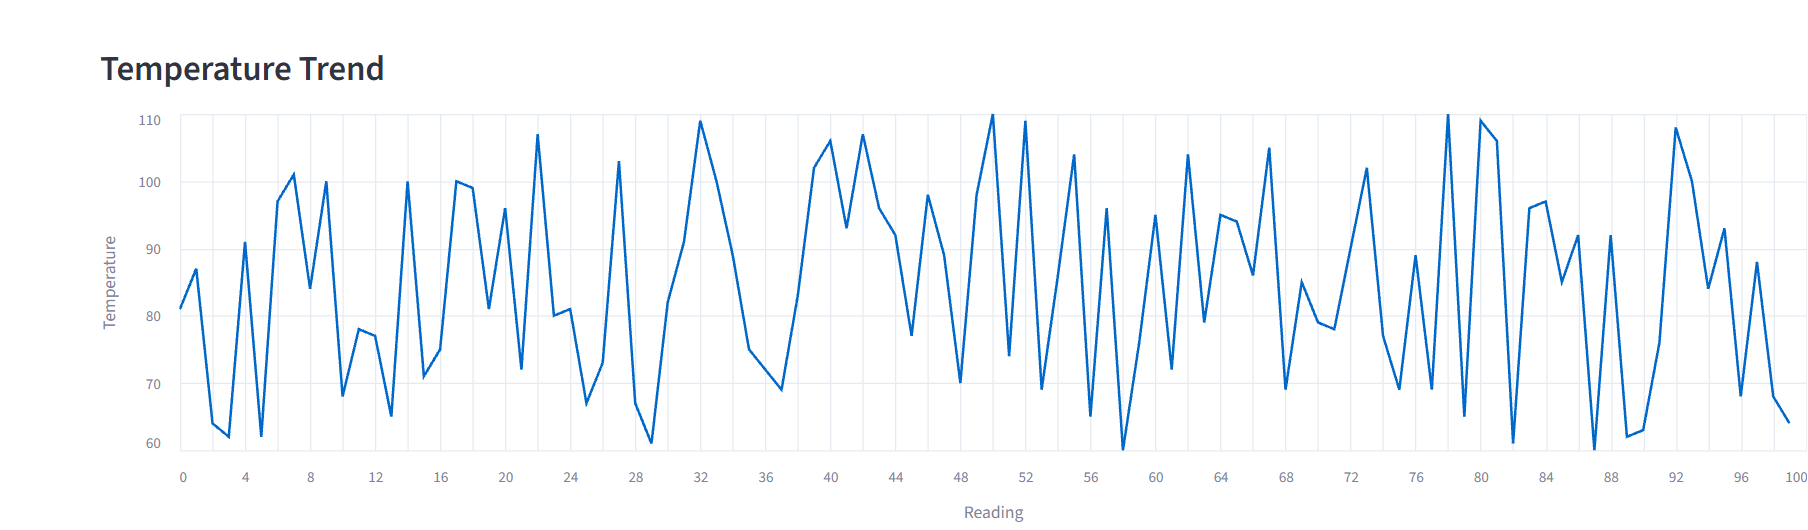
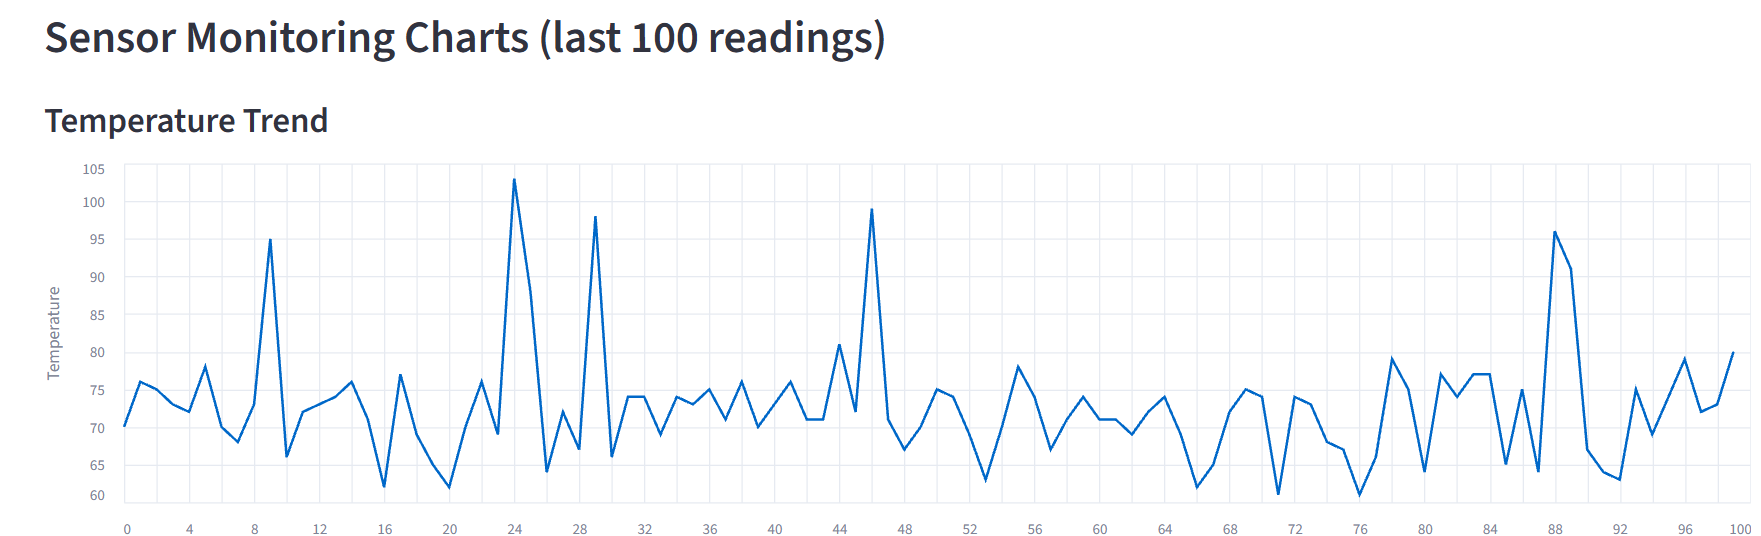
Update README, realistic simulation, shared threshold config, new screenshots

diff --git a/sensor_simulation.py b/sensor_simulation.py
@@ -1,52 +1,40 @@
-
-import random
-import time
 import csv
+import random
 
-machine_id = "M001"
+from config import MACHINE_ID, get_status
 
-# Create and open the CSV file
+NUM_READINGS = 200        # how many readings to generate
+ANOMALY_CHANCE = 0.06     # about 6% of readings are faults (spikes)
+
 with open("machine_data.csv", "w", newline="") as file:
-
     writer = csv.writer(file)
 
-    # Add column headings
-    writer.writerow([
-        "Machine ID",
-        "Temperature",
-        "Vibration",
-        "Speed",
-        "Machine Status"
-    ])
+    # Column headings
+    writer.writerow(["Machine ID", "Temperature", "Vibration", "Speed", "Machine Status"])
 
-    # Generate 10 sensor readings
-    for i in range(10):
+    warnings = 0
 
-        temperature = random.randint(60, 110)
-        vibration = round(random.uniform(2.0, 8.0), 2)
-        speed = random.randint(1000, 1800)
+    for i in range(NUM_READINGS):
+        # Normal operation: values stay close to a typical level
+        temperature = random.gauss(72, 5)
+        vibration = random.gauss(4.0, 0.7)
+        speed = random.gauss(1450, 60)
 
-        if temperature > 90:
-            status = "Warning"
-        else:
-            status = "Normal"
+        # Occasionally the machine develops a fault: temperature and vibration spike
+        if random.random() < ANOMALY_CHANCE:
+            temperature += random.uniform(18, 35)
+            vibration += random.uniform(2.5, 4.0)
+            speed -= random.uniform(100, 300)
 
-        print("Reading:", i + 1)
-        print("Temperature:", temperature, "°C")
-        print("Vibration:", vibration, "mm/s")
-        print("Speed:", speed, "RPM")
-        print("Machine Status:", status)
-        print("------------------------")
+        temperature = round(temperature)
+        vibration = round(max(vibration, 0.5), 2)
+        speed = round(speed)
 
-        # Save readings into CSV
-        writer.writerow([
-            machine_id,
-            temperature,
-            vibration,
-            speed,
-            status
-        ])
+        status = get_status(temperature, vibration)
+        if status == "WARNING":
+            warnings += 1
 
-        time.sleep(2)
+        writer.writerow([MACHINE_ID, temperature, vibration, speed, status])
 
-print("All 10 sensor readings saved successfully!")
+print(f"Saved {NUM_READINGS} readings to machine_data.csv")
+print(f"Warning readings: {warnings} ({warnings / NUM_READINGS:.0%})")

diff --git a/app.py b/app.py
@@ -4,10 +4,10 @@ import altair as alt
 import pandas as pd
 import streamlit as st
 
+from config import get_status
+
 # ---------- Settings ----------
-DATA_FILES = ["live_machine_data.csv", "machine_data.csv"]
-TEMP_LIMIT = 90
-VIBRATION_LIMIT = 7.0
+DATA_FILES = ["machine_data.csv", "live_machine_data.csv"]
 
 st.set_page_config(page_title="Machine Digital Twin", page_icon="🏭", layout="wide")
 
@@ -41,14 +41,10 @@ def load_data():
     if "Machine ID" not in df.columns:
         df["Machine ID"] = "M001"
 
-    # Compute status if the file does not have one
-    if "Machine Status" not in df.columns:
-        df["Machine Status"] = df.apply(
-            lambda r: "WARNING"
-            if r["Temperature"] > TEMP_LIMIT or r["Vibration"] > VIBRATION_LIMIT
-            else "NORMAL",
-            axis=1,
-        )
+    # Always compute status from the shared thresholds in config.py
+    df["Machine Status"] = df.apply(
+        lambda r: get_status(r["Temperature"], r["Vibration"]), axis=1
+    )
     return df
 
 

diff --git a/config.py b/config.py
@@ -1,0 +1,14 @@
+"""Shared settings for the Machine Digital Twin project."""
+
+MACHINE_ID = "M001"
+
+# A reading is a WARNING if any of these limits is crossed
+TEMP_LIMIT = 90         # degrees C
+VIBRATION_LIMIT = 7.0   # mm/s
+
+
+def get_status(temperature, vibration):
+    """Return 'WARNING' or 'NORMAL' for one reading."""
+    if temperature > TEMP_LIMIT or vibration > VIBRATION_LIMIT:
+        return "WARNING"
+    return "NORMAL"

diff --git a/README .md b/README .md
@@ -1,6 +1,6 @@
 # Machine Digital Twin Dashboard
 
-A learning project that builds a **digital twin** of an industrial machine (ID: `M001`). It simulates sensor data, stores it in CSV files, analyses it, and shows the machine's live condition on a Streamlit dashboard.
+A learning project that builds a **digital twin** of an industrial machine (ID: `M001`). It simulates sensor data, stores it in CSV files, analyses it, and shows the machine's condition on a Streamlit dashboard.
 
 > **Note:** All sensor data is **simulated**. No real machine is connected.
 
@@ -11,8 +11,9 @@ A digital twin is a virtual copy of a physical asset that is kept in sync with s
 ## Features
 
 - Simulated sensor readings: temperature (°C), vibration (mm/s) and machine speed (RPM)
-- Rule-based status classification: `NORMAL` / `WARNING`
-- Live Streamlit dashboard with:
+- Mostly normal operation with occasional simulated faults (spikes)
+- Rule-based status classification: `NORMAL` / `WARNING`, with thresholds kept in one place (`config.py`)
+- Streamlit dashboard with:
   - Current machine status banner
   - Latest sensor readings
   - Trend charts for temperature, vibration and machine speed (last 100 readings)
@@ -23,22 +24,25 @@ A digital twin is a virtual copy of a physical asset that is kept in sync with s
 ## Architecture
 
 ```
-sensor_simulation.py  ->  CSV data  ->  digital_twin.py (status logic)  ->  app.py (Streamlit dashboard)
-                                    ->  analyze_machine.py / visualize_machine.py (offline analysis)
+config.py (thresholds + status rule)
+      |
+sensor_simulation.py  ->  machine_data.csv  ->  app.py (Streamlit dashboard)
+                                            ->  analyze_machine.py / visualize_machine.py (offline analysis)
 ```
 
 ## Project structure
 
 | File / Folder | Purpose |
 |---------------|---------|
-| `sensor_simulation.py` | Generates simulated sensor readings |
-| `digital_twin.py` | Core twin logic: reads data and decides machine status |
+| `config.py` | Machine ID, warning thresholds and the `get_status()` rule |
+| `sensor_simulation.py` | Generates 200 simulated readings into `machine_data.csv` |
+| `digital_twin.py` | Core twin logic |
 | `live_digital_twin.py` | Continuously updating twin |
 | `live_digital_twin_csv.py` | Live twin that writes readings to `live_machine_data.csv` |
 | `analyze_machine.py` | Summary statistics of the machine data |
 | `visualize_machine.py` | Generates charts into the `visualizations/` folder |
 | `app.py` | Streamlit dashboard |
-| `machine_data.csv` | Sample dataset |
+| `machine_data.csv` | Generated sample dataset |
 | `screenshots/` | Dashboard screenshots used in this README |
 | `requirements.txt` | Python dependencies |
 
@@ -57,7 +61,10 @@ venv\Scripts\activate        # Windows
 # 3. Install dependencies
 python -m pip install -r requirements.txt
 
-# 4. Run the dashboard
+# 4. Generate the sensor data
+python sensor_simulation.py
+
+# 5. Run the dashboard
 python -m streamlit run app.py
 ```
 
@@ -65,7 +72,7 @@ Then open http://localhost:8501 in your browser.
 
 ## Status rules
 
-A reading is flagged `WARNING` when a sensor value crosses its threshold, otherwise it is `NORMAL`. The thresholds are defined at the top of `app.py` (`TEMP_LIMIT`, `VIBRATION_LIMIT`) and can be changed in one place.
+A reading is flagged `WARNING` when temperature is above `TEMP_LIMIT` (90 °C) or vibration is above `VIBRATION_LIMIT` (7.0 mm/s). Otherwise it is `NORMAL`. The thresholds and the rule are defined in `config.py`, so the simulation and the dashboard always use the same logic.
 
 ## Screenshots
 
@@ -73,13 +80,13 @@ A reading is flagged `WARNING` when a sensor value crosses its threshold, otherw
 ![Dashboard](screenshots/dashboard.png)
 
 ### Temperature trend
-![Temperature Trend](screenshots/trend_1.png)
+![Temperature Trend](screenshots/Trend_1.png)
 
 ### Vibration trend
-![Vibration Trend](screenshots/trend_2.png)
+![Vibration Trend](screenshots/Trend_2.png)
 
 ### Machine speed trend
-![Machine Speed Trend](screenshots/trend_3.png)
+![Machine Speed Trend](screenshots/Trend_3.png)
 
 ## Tech stack
 
